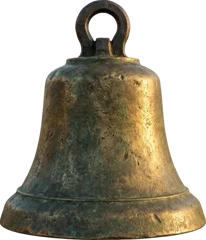
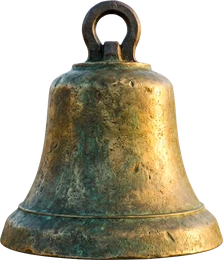
Mont Keys Aprender: campana PNG con pátina y sin resaltado al tocar

diff --git a/public/keys/aprender/index.html b/public/keys/aprender/index.html
@@ -122,8 +122,8 @@ main{position:relative;z-index:2}
 .sc{display:flex;flex-direction:column;align-items:center;gap:1px;color:rgba(241,230,207,.3);font-size:11px;transition:color .6s}.sc small{font-size:10px}
 .sc.on{color:var(--gold);filter:drop-shadow(0 0 6px rgba(232,194,122,.7))}
 .bellfield{position:relative;width:100%;aspect-ratio:760/554;border-radius:16px;background-color:#2a1c12;background-size:157.9% auto;background-position:52.3% 32.2%;background-repeat:no-repeat;border:1px solid var(--line);overflow:hidden;box-shadow:inset 0 0 40px rgba(0,0,0,.45)}
-.bellb{position:absolute;transform:translate(-50%,-7px);background:none;border:0;cursor:pointer;display:flex;flex-direction:column;align-items:center;padding:0;width:56px}
-.bellb .bimg{display:block;width:clamp(34px,10vw,50px);height:auto;transform-origin:50% 4%;filter:drop-shadow(0 4px 4px rgba(0,0,0,.45));pointer-events:none;-webkit-user-drag:none}.bellb.ring .bimg{animation:swing .6s ease}.bellb.sel .bimg{filter:drop-shadow(0 0 10px #ffd56e) drop-shadow(0 4px 4px rgba(0,0,0,.45))}.bellb.lit .bimg{filter:drop-shadow(0 0 14px #ffd56e)}
+.bellb{position:absolute;transform:translate(-50%,-7px);background:none;border:0;cursor:pointer;-webkit-tap-highlight-color:transparent;outline:none;-webkit-touch-callout:none;user-select:none;-webkit-user-select:none;display:flex;flex-direction:column;align-items:center;padding:0;width:56px}
+.bellb:focus-visible .bimg{outline:2px solid var(--gold);outline-offset:3px;border-radius:8px}.bellb .bimg{display:block;width:clamp(34px,10vw,50px);height:auto;transform-origin:50% 4%;filter:drop-shadow(0 4px 4px rgba(0,0,0,.45));pointer-events:none;-webkit-user-drag:none}.bellb.ring .bimg{animation:swing .6s ease}.bellb.sel .bimg{filter:drop-shadow(0 0 10px #ffd56e) drop-shadow(0 4px 4px rgba(0,0,0,.45))}.bellb.lit .bimg{filter:drop-shadow(0 0 14px #ffd56e)}
 @keyframes swing{0%{transform:rotate(0)}25%{transform:rotate(14deg)}50%{transform:rotate(-10deg)}75%{transform:rotate(5deg)}100%{transform:rotate(0)}}
 .bellb .bn{position:absolute;top:-4px;right:12px;background:var(--wax);color:#fff;border-radius:50%;width:20px;height:20px;font-size:12px;display:grid;place-items:center}
 .bellb .bw{display:block;width:50px;background:rgba(10,8,6,.55);border-radius:6px}
